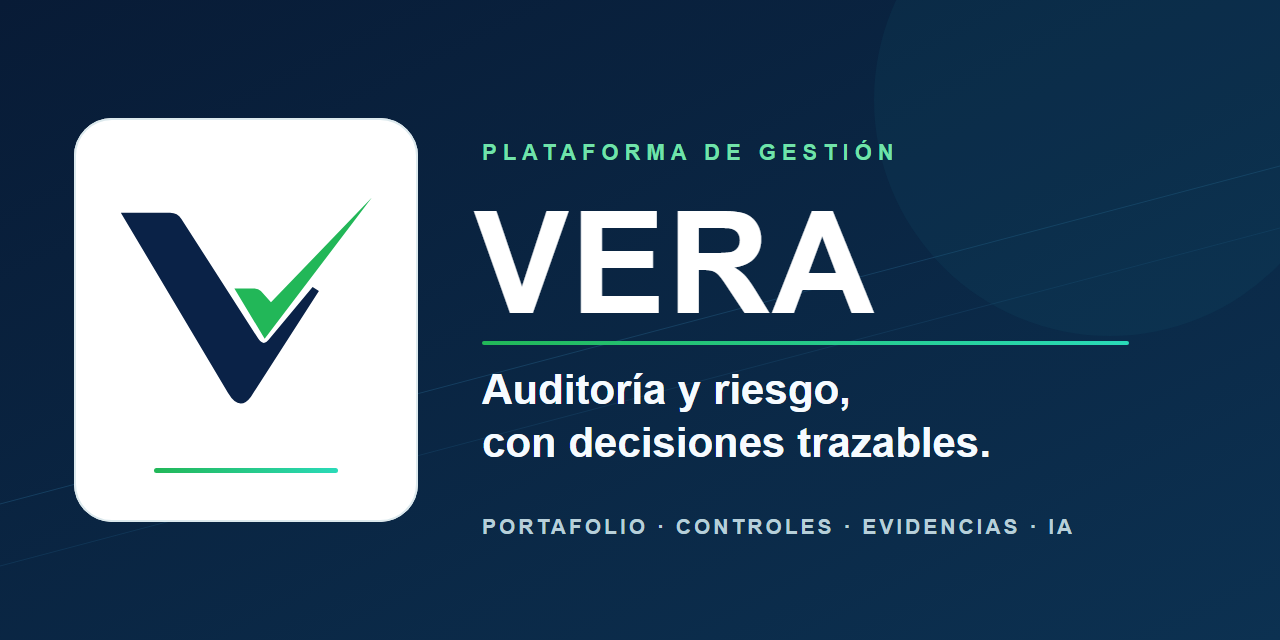
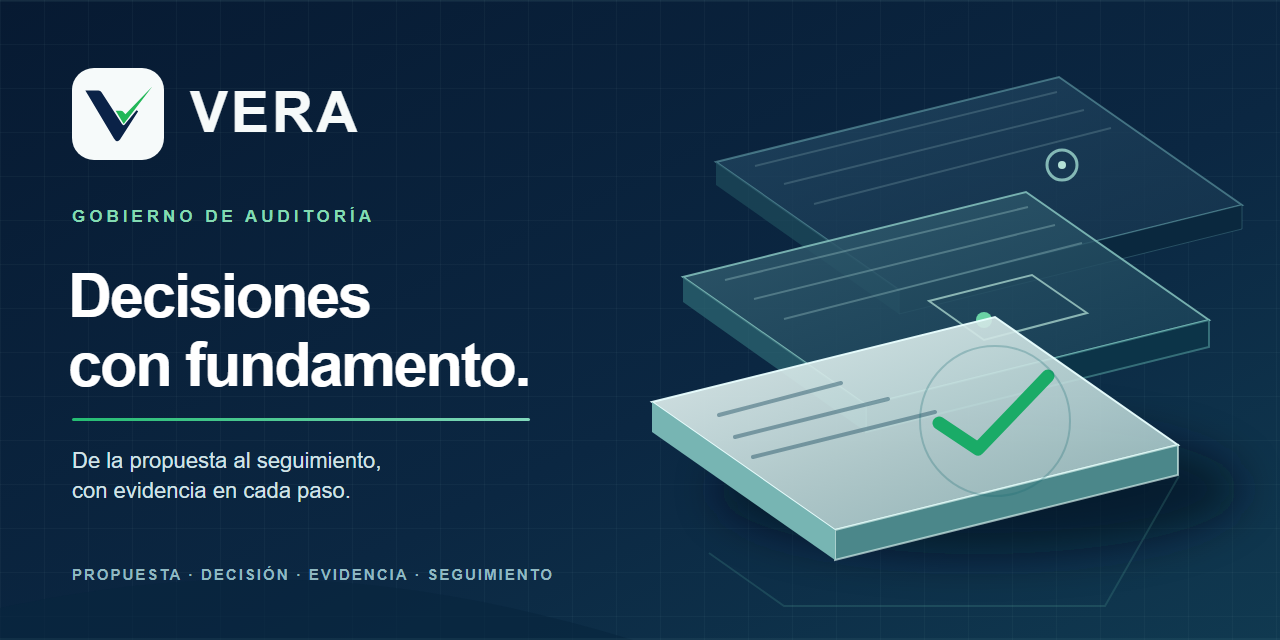
docs: renovar portada editorial de README y Wiki (#90)

diff --git a/docs/wiki/Home.md b/docs/wiki/Home.md
@@ -1,16 +1,12 @@
 # VERA · Centro de conocimiento
 
-<img src="https://raw.githubusercontent.com/humbertofigb15/VERA/main/frontend/public/vera-logo.png" alt="Isotipo VERA" width="112">
+<img src="https://raw.githubusercontent.com/humbertofigb15/VERA/main/docs/assets/social-preview.png" alt="VERA: decisiones con fundamento. Tres planos en perspectiva representan propuesta, decisión y evidencia." width="960">
 
-**Verificación, evidencia, riesgo y auditoría.** Esta Wiki conecta la experiencia del producto con sus decisiones de diseño, controles técnicos y evidencia de calidad. Está escrita para docentes, usuarios de negocio, personas desarrolladoras y responsables de operación.
-
-<img src="https://raw.githubusercontent.com/humbertofigb15/VERA/main/docs/assets/planificacion-demo.png" alt="Vista real del módulo Planificación con indicadores y una propuesta abierta; datos de demostración" width="760">
-
-*Vista real de Planificación compartida por el equipo · datos de demostración.*
+**Una sola vista del recorrido de auditoría.** Explora el producto, la arquitectura, los permisos, la operación y la evidencia de calidad sin perder el contexto de cada decisión. Esta Wiki está organizada para docentes, usuarios de negocio y personas que construyen u operan VERA.
 
 > **Cómo leer el estado:** VERA es un prototipo académico en evolución. «Implementado en código», «aprobado en CI» y «aceptado en producción» son afirmaciones distintas. Consulta [Estado y evidencias](https://github.com/humbertofigb15/VERA/wiki/Modulos-y-HU) antes de cerrar una HU.
 
-## Elige tu recorrido
+## Empieza por lo que necesitas
 
 | Si quieres... | Empieza aquí | Después |
 | --- | --- | --- |
@@ -22,7 +18,7 @@
 | Desarrollar o desplegar | [Contribuir](https://github.com/humbertofigb15/VERA/wiki/Contribuir) | [Operación y despliegue](https://github.com/humbertofigb15/VERA/wiki/Operacion-y-despliegue) |
 | Encontrar un documento técnico | [Biblioteca de runbooks](https://github.com/humbertofigb15/VERA/wiki/Biblioteca-de-runbooks) | [Glosario](https://github.com/humbertofigb15/VERA/wiki/Glosario) |
 
-## La idea en una frase
+## Cómo se conecta todo
 
 VERA reúne propuesta, decisión, auditoría, riesgo, control, evidencia y seguimiento en un mismo recorrido, con datos visibles según los permisos del usuario.
 
@@ -36,7 +32,7 @@ flowchart LR
   E --> S[Seguimiento]
 ```
 
-## Enlaces directos
+## Accesos directos
 
 - [Repositorio y README](https://github.com/humbertofigb15/VERA) · [Aplicación publicada](https://vera-salva-ventures.vercel.app) — requiere cuenta de VERA.
 - [Workflow integral para docentes](https://github.com/humbertofigb15/VERA/actions/workflows/classroom-quality.yml) · [PR fusionados](https://github.com/humbertofigb15/VERA/pulls?q=is%3Apr+is%3Amerged).

diff --git a/docs/identidad-repositorio.md b/docs/identidad-repositorio.md
@@ -1,6 +1,6 @@
 # Identidad visible del repositorio
 
-Esta ficha reúne el texto y la imagen necesarios para completar la tarjeta **About** y la vista previa social de GitHub. La portada del README y la imagen usan el isotipo VERA ya presente en `frontend/public/vera-logo.svg`; no se ha creado otra marca.
+Esta ficha reúne el texto y la imagen necesarios para completar la tarjeta **About** y la vista previa social de GitHub. La portada del README, la Home de la Wiki y la imagen social comparten el isotipo VERA ya presente en `frontend/public/vera-logo.svg`; no se ha creado otra marca.
 
 ## Metadatos propuestos
 
@@ -16,13 +16,14 @@ Esta ficha reúne el texto y la imagen necesarios para completar la tarjeta **Ab
 
 - Archivo listo para subir: [`docs/assets/social-preview.png`](assets/social-preview.png), 1280 × 640 píxeles.
 - Fuente editable: [`docs/assets/social-preview.svg`](assets/social-preview.svg).
-- Se compone del isotipo oficial y texto exacto; no contiene capturas reconstruidas ni datos reales.
+- Se compone del isotipo oficial, texto editorial y planos vectoriales en perspectiva. Los planos representan etapas del expediente; no simulan una pantalla, no contienen datos reales y no acreditan funcionalidad.
+- El README carga el SVG para mantener la nitidez; la Wiki usa el PNG para una vista consistente. Ambos muestran la misma composición y tienen texto alternativo.
 - Una persona con permiso de administración puede cargar el PNG en **Settings → Social preview**. GitHub recomienda 1280 × 640 píxeles y un archivo menor a 1 MB.
 
-La captura en el README es un archivo recibido del equipo. Muestra la pantalla de Planificación con datos de demostración; no se presenta como evidencia de producción ni como una captura de todos los módulos.
+La identidad visual usa volumen y profundidad con la paleta azul y verde de VERA. La portada es una pieza de comunicación, no un sustituto de las pruebas, la aplicación ni el estado de aceptación de las HU.
 
 ## Comprobación posterior
 
 1. Revisar About en la página principal y confirmar que la descripción, URL y topics aparecen como se acordó.
 2. Compartir la URL del repositorio en un servicio que muestre vista previa y comprobar que presenta la imagen correcta; algunos servicios guardan el resultado en caché.
-3. Confirmar que la captura del README sigue representando la interfaz actual y reemplazarla cuando cambie de manera material.
+3. Al modificar el mensaje o el isotipo, actualizar el SVG y volver a generar el PNG de 1280 × 640 antes de publicarlo en la Wiki o en Social preview.

diff --git a/README.md b/README.md
@@ -1,9 +1,8 @@
-<p align="center"><img src="frontend/public/vera-logo.svg" alt="Isotipo VERA: V azul marino con marca verde" width="132"></p>
+<p align="center"><img src="docs/assets/social-preview.svg" alt="VERA: decisiones con fundamento. Tres planos en perspectiva representan propuesta, decisión y evidencia." width="1080"></p>
 
-<h1 align="center">VERA</h1>
+<h1 align="center">VERA · auditoría, riesgo y evidencia</h1>
 
-<p align="center"><strong>De la propuesta de auditoría a la decisión respaldada por evidencia.</strong></p>
-<p align="center">Portafolio · riesgos · controles · evidencias · seguimiento</p>
+<p align="center">Un recorrido verificable desde la propuesta hasta el seguimiento.</p>
 
 <p align="center">
   <img src="https://github.com/humbertofigb15/VERA/actions/workflows/quality.yml/badge.svg?branch=main" alt="Estado de calidad en main">
@@ -19,9 +18,6 @@
 </p>
 
 > **Estado del proyecto.** VERA es un prototipo académico con código funcional y pruebas automatizadas. La aplicación publicada exige una cuenta de VERA; el acceso universitario o a Azure DevOps no inicia sesión automáticamente. Un check verde acredita la verificación indicada, no la aceptación de todas las historias en producción. [Estado y límites por HU](docs/hu-acceptance-audit.md).
-
-<p align="center"><img src="docs/assets/planificacion-demo.png" alt="Vista real del módulo Planificación con indicadores, una propuesta abierta y navegación de VERA; datos de demostración" width="960"></p>
-<p align="center"><sub>Vista real de Planificación compartida por el equipo · datos de demostración</sub></p>
 
 ## VERA en un minuto
 

diff --git a/docs/wiki/_Sidebar.md b/docs/wiki/_Sidebar.md
@@ -1,14 +1,23 @@
 ### VERA
 
 - [Inicio](https://github.com/humbertofigb15/VERA/wiki)
+
+**Producto**
+
 - [Producto y flujos](https://github.com/humbertofigb15/VERA/wiki/Producto-y-flujos)
 - [Módulos y HU](https://github.com/humbertofigb15/VERA/wiki/Modulos-y-HU)
+- [IA de VERA](https://github.com/humbertofigb15/VERA/wiki/IA-de-VERA)
+
+**Diseño y datos**
+
 - [Arquitectura](https://github.com/humbertofigb15/VERA/wiki/Arquitectura)
 - [Acceso y permisos](https://github.com/humbertofigb15/VERA/wiki/Acceso-y-permisos)
 - [Datos y Supabase](https://github.com/humbertofigb15/VERA/wiki/Datos-y-Supabase)
-- [IA de VERA](https://github.com/humbertofigb15/VERA/wiki/IA-de-VERA)
+
+**Evidencia y operación**
+
 - [Calidad y pruebas](https://github.com/humbertofigb15/VERA/wiki/Calidad-y-pruebas)
 - [Operación y despliegue](https://github.com/humbertofigb15/VERA/wiki/Operacion-y-despliegue)
-- [Contribuir](https://github.com/humbertofigb15/VERA/wiki/Contribuir)
 - [Biblioteca de runbooks](https://github.com/humbertofigb15/VERA/wiki/Biblioteca-de-runbooks)
+- [Contribuir](https://github.com/humbertofigb15/VERA/wiki/Contribuir)
 - [Glosario](https://github.com/humbertofigb15/VERA/wiki/Glosario)
